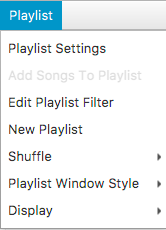
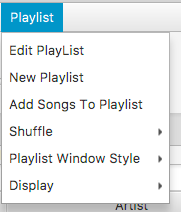
fixed links and updated menus / images

diff --git a/usage.html b/usage.html
@@ -705,7 +705,7 @@ body{
 
           <a href="https://github.com/macmanmatty/Dominate7th/releases/download/v0.2linux/Dominate7th-linux.jar" class="link"> <img src="images/java.png" class="linkImage">  Download  Latest Linux 86x Jar </a>
 
-          <a href="https://github.com/macmanmatty/Dominate7th/releases" class="link"> <img src="images/github.png" class="linkImage">  Download Other Versions </a> 
+          <a href="https://github.com/macmanmatty/Dominate7th/releases" class="link"> <img src="images/github.png" class="linkImage">  Download Other Versions </a>
 
 
           <a href="https://github.com/macmanmatty/Dominate7th" class="link"> <img src="images/github.png" class="linkImage">  Download Source From GitHub </a> </div>
@@ -821,7 +821,7 @@ Plays the next song on the currently selected playlist when finished.
 <img src="images/musicLibraryMenu.png">
 <p class=menuItem> <span class="boldLarge" > Open File </span> Opens a song and plays It.</p>
 <p class=menuItem2> <span class="boldLarge" > Sort Music Folder </span> Opens   a  new  widnow for sorting music folders .</p>
-<p class=menuItem> <span class="boldLarge" > Import Cd </span> If the currently displayed playlist is a CD playlist opens a new CD import window, otherwise it is disabled <a href="#FFmpegEnocoderWindow" > Go to Import window options here</a>.</p>
+<p class=menuItem> <span class="boldLarge" > Import Cd </span> If the currently displayed playlist is a CD playlist opens a new CD import window, otherwise it is disabled <a href="#PlayListMenu" > Go to Import window options here</a>.</p>
 <p class=menuItem2> <span class="boldLarge" > Save Library </span> Saves your music library.</p>
 
 <p class=menuItem> <span class="boldLarge" > Add Songs To Library</span>  Opens a new file chooser window and scans the selected directory for songs and adds them to your  library  and / or moves copies them  to your library folder if those settings are selected.</p>
@@ -831,7 +831,7 @@ Plays the next song on the currently selected playlist when finished.
 
 <p class=menuItem2> <span class="boldLarge" > Reload Playlist Tabs</span>  Creates a new playList tab  for all playlists in your library and all currently avaiable CDs  also can called by using COMMAND + R keys .</p>
 
-<p class=menuItem> <span class="boldLarge" > Link Songs To Album Images</span>  Opne new Window for linking songs to the images in the same folder as them so they will display as part of the album art .</p>
+<p class=menuItem> <span class="boldLarge" > Link Songs To Album Images</span>  Opens  a new Window for linking songs to the images in the same folder as them so they will display as a part of the album art .</p>
 
 
 
@@ -847,13 +847,12 @@ Plays the next song on the currently selected playlist when finished.
 <p class="menuTitle"> Playlist Menu </p>
 
 <img src="images/PlaylistMenu.png">
-<p class=menuItem2> <span class="boldLarge" > Playlist Settings</span>  Opens a new playist settings window <a href="" > Go to  playlist settings options here</a>.</p>
 
 <p class=menuItem> <span class="boldLarge" > Add Songs To Playlist</span>   If the current playlist is not a smart playlist opnes a new file chooser window and scans the selected directory for songs and adds them to the current playlist
-  and / or  adds them to the library and  moves copies them to the library folder if those settings are selected. Otherwise if the playlist is smart playlist it is disabled. </p>
+  and / or  adds them to the library and  moves copies them to the library folder if those settings are selected. Otherwise if the playlist is a  smart playlist it is disabled. </p>
 
-<p class=menuItem2> <span class="boldLarge" > Edit Playlist Filter </span> Opens   a  new  widnow for editing the curent playlist <a href="" > Go to playlist edit /creation window options here</a>.</p>
-<p class=menuItem> <span class="boldLarge" > New Playlist </span> Opens  new window for creating a NEW playlist.  <a href=""> Go to playlist edit /creation window options here</a></p>
+<p class=menuItem2> <span class="boldLarge" > Edit Playlist Filter </span> Opens   a  new  widnow for editing the curent playlist <a href="#Playlist Creator Window" > Go to playlist edit /creation window options here</a>.</p>
+<p class=menuItem> <span class="boldLarge" > New Playlist </span> Opens  new window for creating a NEW playlist.  <a href="#Playlist Creator Window"> Go to playlist edit /creation window options here</a></p>
 <p class=menuItem2> <span class="boldLarge" > Shuffle PlayList </span>  Displays a menu for selected keys to shuffle the playList on IE. Artist, Genre, Album ECT.</p>
 <p class=menuItem> <span class="boldLarge" > Display</span>  Displays a menu for selecting the keys to be displayed  in the playlist table  Song Title, Audio Format, Artist,  Composer, File Path Ect.</p>
 </div>
